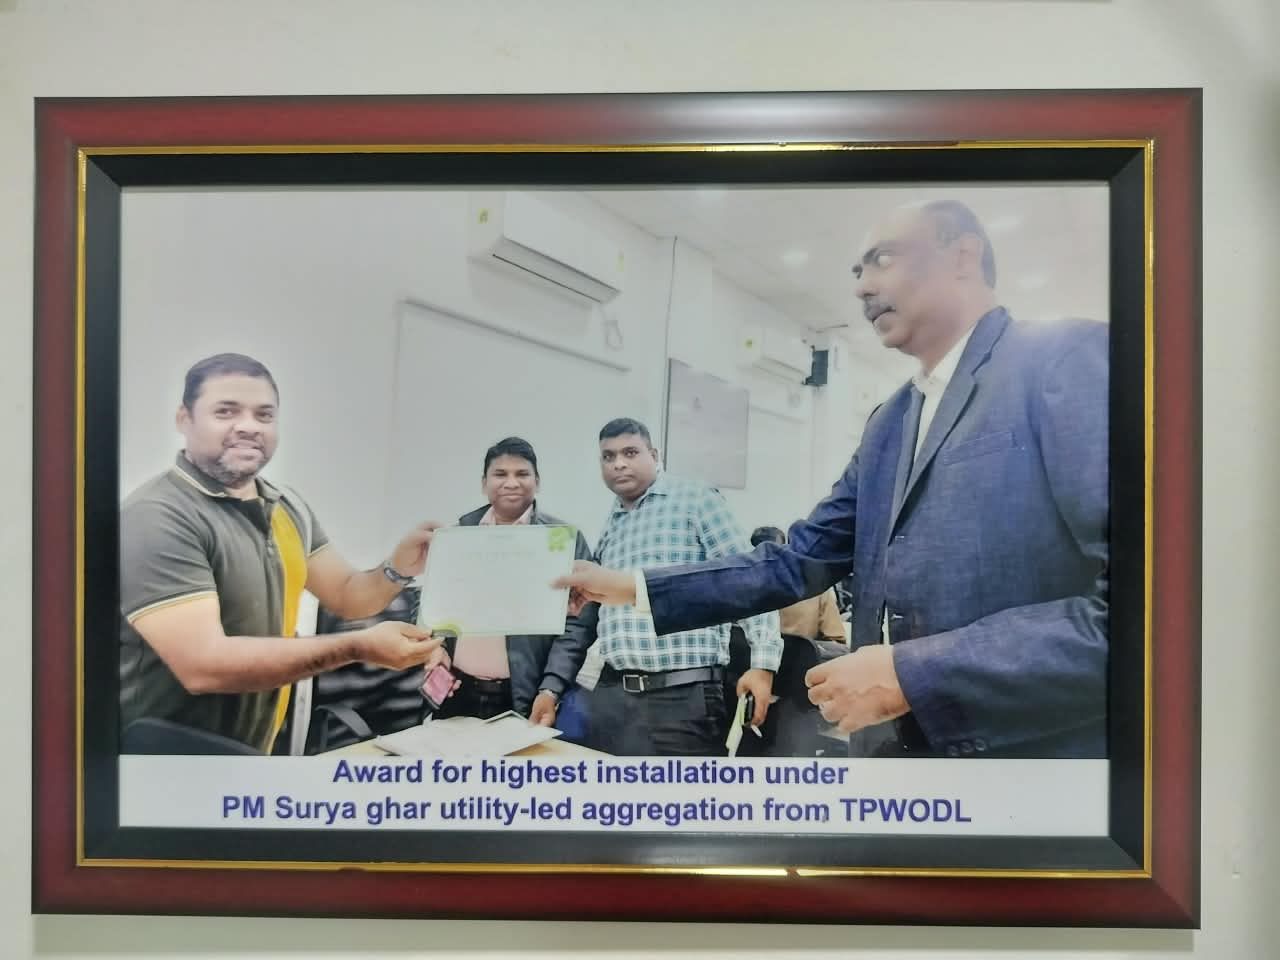
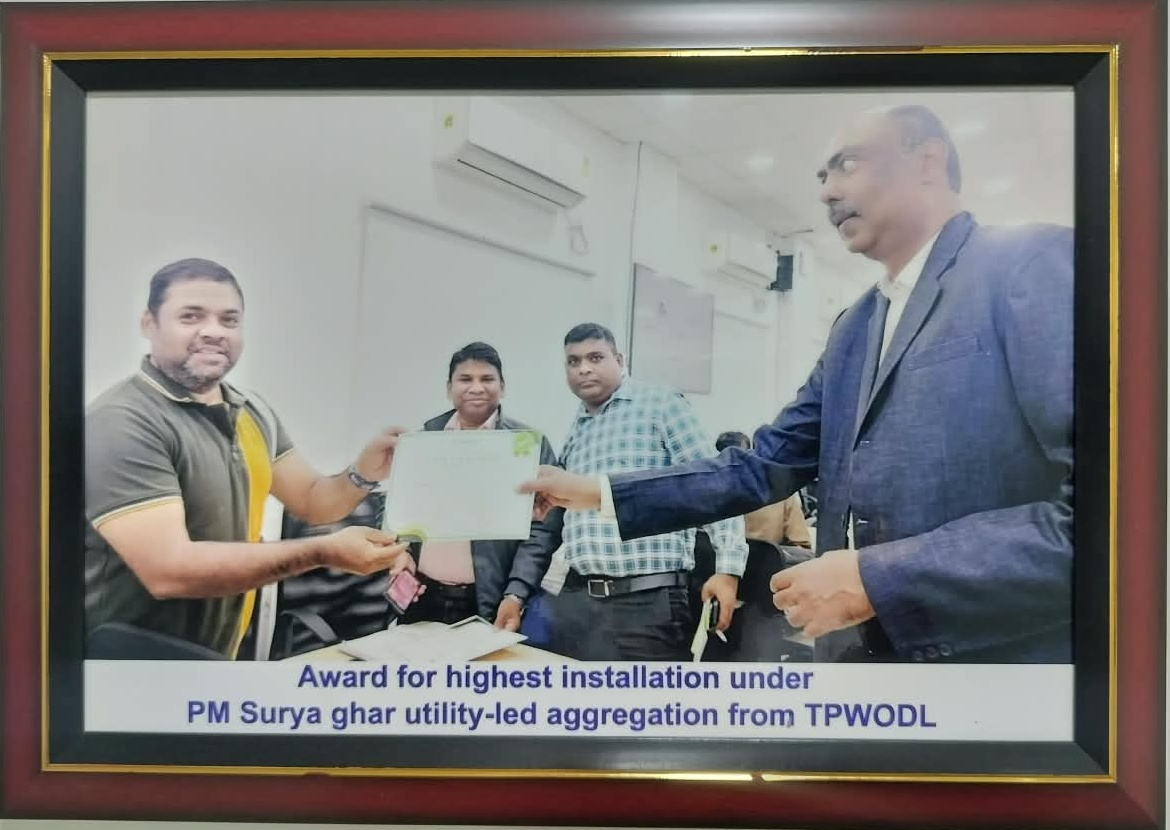
style(awards): crop award frames edge-to-edge removing wall padding and expand image to fill card borders

diff --git a/src/components/home/AwardsAndCertificationsSection.tsx b/src/components/home/AwardsAndCertificationsSection.tsx
@@ -184,6 +184,9 @@ export const AwardsAndCertificationsSection: React.FC = () => {
                   src={award.imageSrc}
                   alt={award.imageAlt}
                   className="home-award-card__img"
+                  style={{
+                    objectPosition: award.id === 'summit-bre-mnre-tpwodl-leader' ? 'center 15%' : 'center center',
+                  }}
                   loading="lazy"
                 />
                 <span className="home-award-card__tag">{award.badge}</span>

diff --git a/src/styles/utilities.css b/src/styles/utilities.css
@@ -5080,8 +5080,8 @@
 .home-award-card__media {
   position: relative;
   width: 100%;
-  aspect-ratio: 16 / 14;
-  min-height: 250px;
+  aspect-ratio: 16 / 11;
+  min-height: 230px;
   overflow: hidden;
   background-color: #0E291D;
   display: flex;
@@ -5099,7 +5099,7 @@
 }
 
 .home-award-card:hover .home-award-card__img {
-  transform: scale(1.06);
+  transform: scale(1.04);
 }
 
 .home-award-card__tag {
